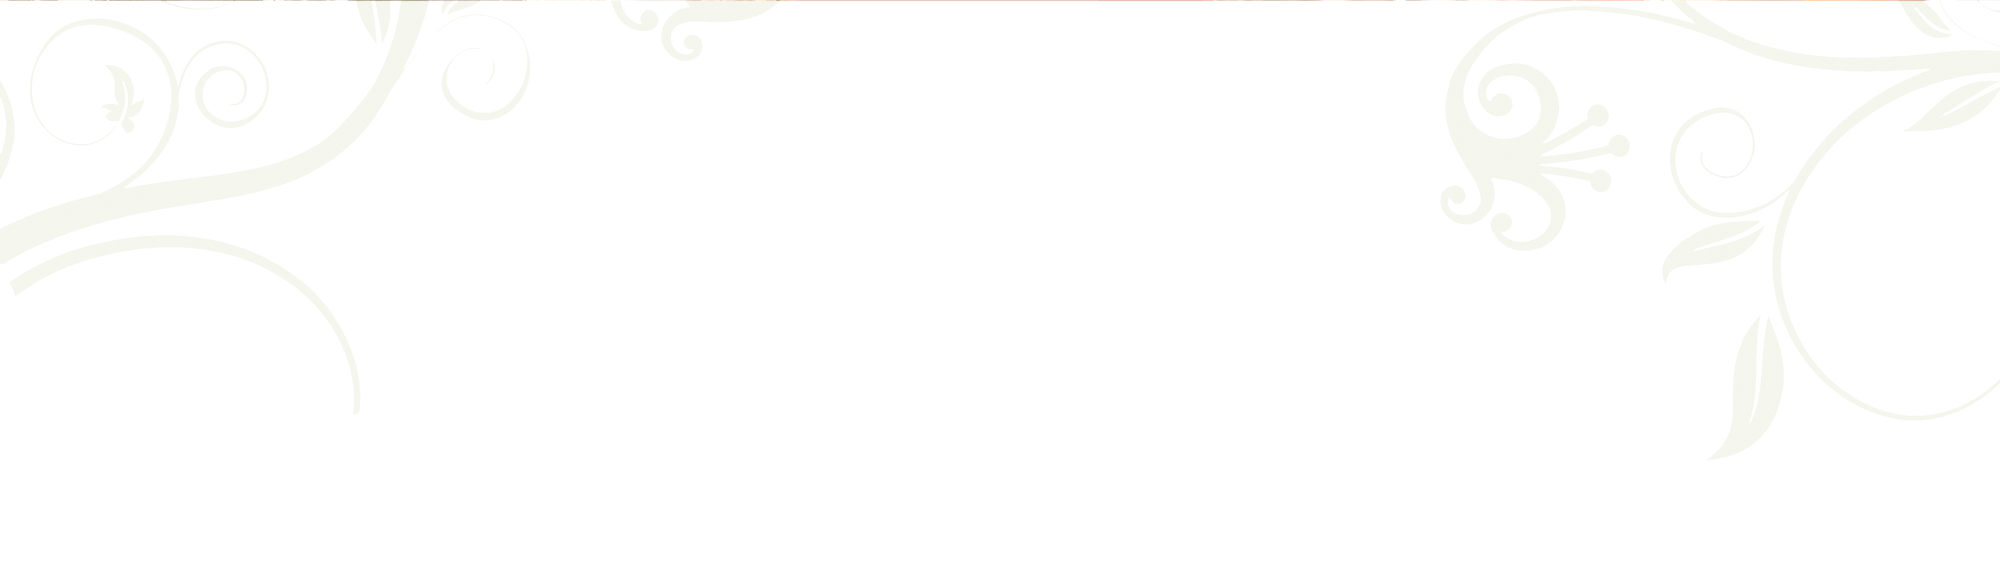
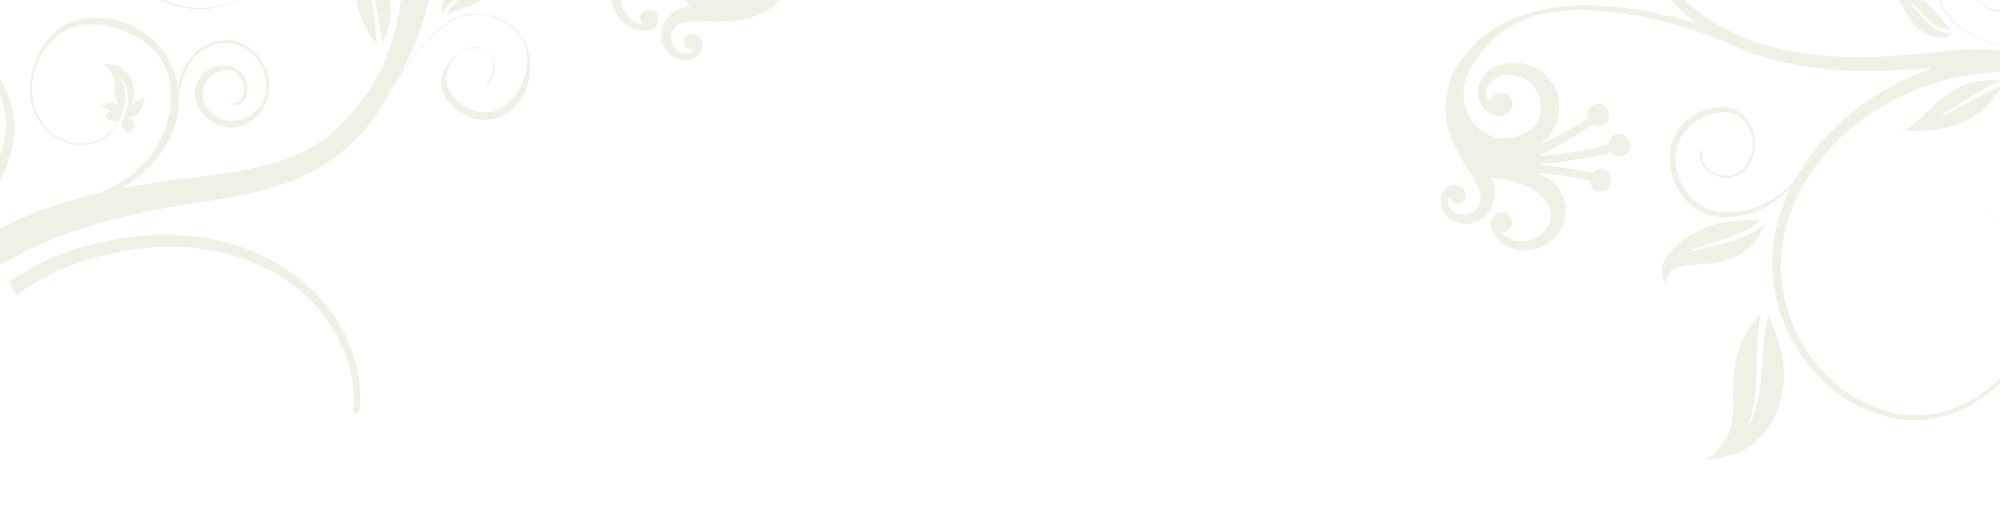
fixed top floral bg issue

diff --git a/wp-content/themes/carnes-crossroads-2015/style.css b/wp-content/themes/carnes-crossroads-2015/style.css
@@ -3494,7 +3494,7 @@ a:focus, a:hover {
       text-shadow: 0 2px 10px rgba(0, 0, 0, 0.5); }
 
 .contact__wrap {
-  margin-top: 150px; }
+  margin-top: 130px; }
   .contact__wrap .row {
     margin-top: 35px;
     margin-bottom: 35px; }
@@ -3513,7 +3513,7 @@ a:focus, a:hover {
     background-color: #ebebeb;
     background-image: url(./img/icon-search.png);
     background-repeat: no-repeat;
-    background-position: 90% center;
+    background-position: 93% center;
     background-size: 1.2rem;
     border: none;
     display: inline-block; }
@@ -3799,13 +3799,11 @@ video {
     height: 90%;
     width: 100%;
     text-align: left;
-    position: relative;
     overflow: hidden; }
   .hero__page {
     display: block;
     height: 70%;
     width: 100%;
-    position: relative;
     background-position: top center;
     background-repeat: no-repeat;
     background-size: cover; }
@@ -3821,15 +3819,15 @@ video {
     background-color: #fff;
     background: url(./img/pattern-white-texture.jpg) repeat; }
   .page-content--white-floral {
-    background: url(./img/bg-floral-overlay.png), url(./img/pattern-white-texture.jpg) #fff;
+    background: url(./img/bg-floral-overlay.png), url(./img/pattern-white-texture.jpg);
     background-repeat: no-repeat, repeat;
     background-size: cover, auto;
     background-position: center center; }
   .page-content--white-floral-top {
-    background: url(./img/bg-floral-top.png), url(./img/pattern-white-texture.jpg) #fff;
+    background: url(./img/bg-floral-top.png), url(./img/pattern-white-texture.jpg);
     background-repeat: no-repeat, repeat;
-    background-size: cover, auto;
-    background-position: center center; }
+    background-size: contain, auto;
+    background-position: top center; }
     .page-content--white-floral-top p {
       font-family: "minion-pro", serif;
       font-size: 1.15rem;

diff --git a/wp-content/themes/carnes-crossroads-2015/scss/_page-templates.scss b/wp-content/themes/carnes-crossroads-2015/scss/_page-templates.scss
@@ -47,7 +47,6 @@
         height: 90%;
         width: 100%;
         text-align: left;
-        position: relative;
         overflow: hidden;
     }
 
@@ -55,7 +54,6 @@
         display: block;
         height: 70%;
         width: 100%;
-        position: relative;
         background-position: top center;
         background-repeat: no-repeat;
         background-size: cover;
@@ -80,7 +78,7 @@
 
     &--white-floral {
         @extend .page-content;
-        background: url(./img/bg-floral-overlay.png), url(./img/pattern-white-texture.jpg) $white;
+        background: url(./img/bg-floral-overlay.png), url(./img/pattern-white-texture.jpg);
         background-repeat: no-repeat, repeat;
         background-size: cover, auto;
         background-position: center center;
@@ -88,10 +86,10 @@
 
     &--white-floral-top {
         @extend .page-content;
-        background: url(./img/bg-floral-top.png), url(./img/pattern-white-texture.jpg) $white;
+        background: url(./img/bg-floral-top.png), url(./img/pattern-white-texture.jpg);
         background-repeat: no-repeat, repeat;
-        background-size: cover, auto;
-        background-position: center center;
+        background-size: contain, auto;
+        background-position: top center;
 
         p {
             font-family: $minion;

diff --git a/wp-content/themes/carnes-crossroads-2015/scss/_footer.scss b/wp-content/themes/carnes-crossroads-2015/scss/_footer.scss
@@ -2,7 +2,7 @@
 // ===================================
 
 .contact__wrap {
-    margin-top: 150px;
+    margin-top: 130px;
 
     .row {
         margin-top: 35px;
@@ -27,7 +27,7 @@
         background-color: #ebebeb;
         background-image: url(./img/icon-search.png);
         background-repeat: no-repeat;
-        background-position: 90% center;
+        background-position: 93% center;
         background-size: 1.2rem;
         border: none;
         display: inline-block;
